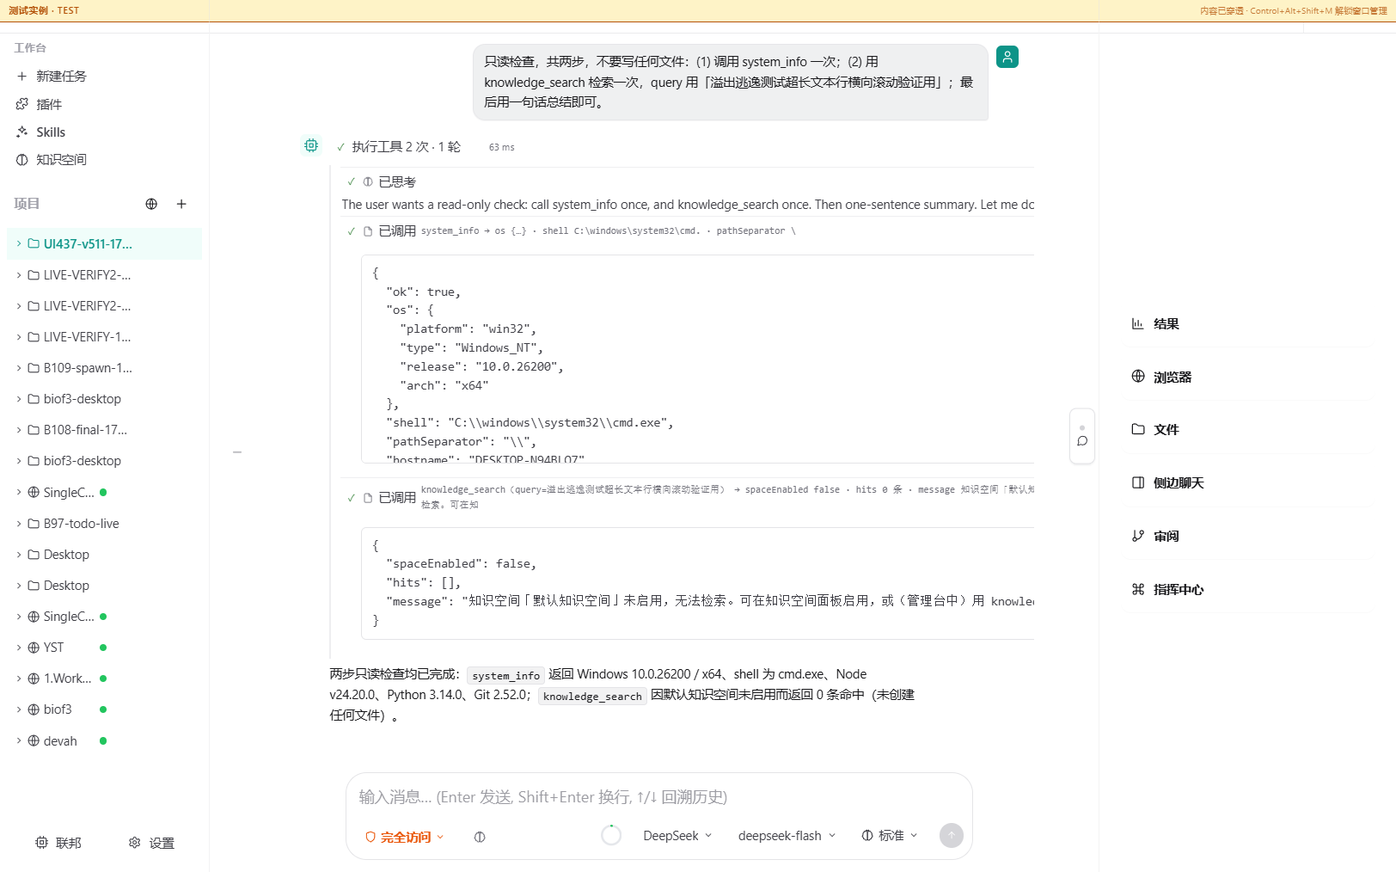
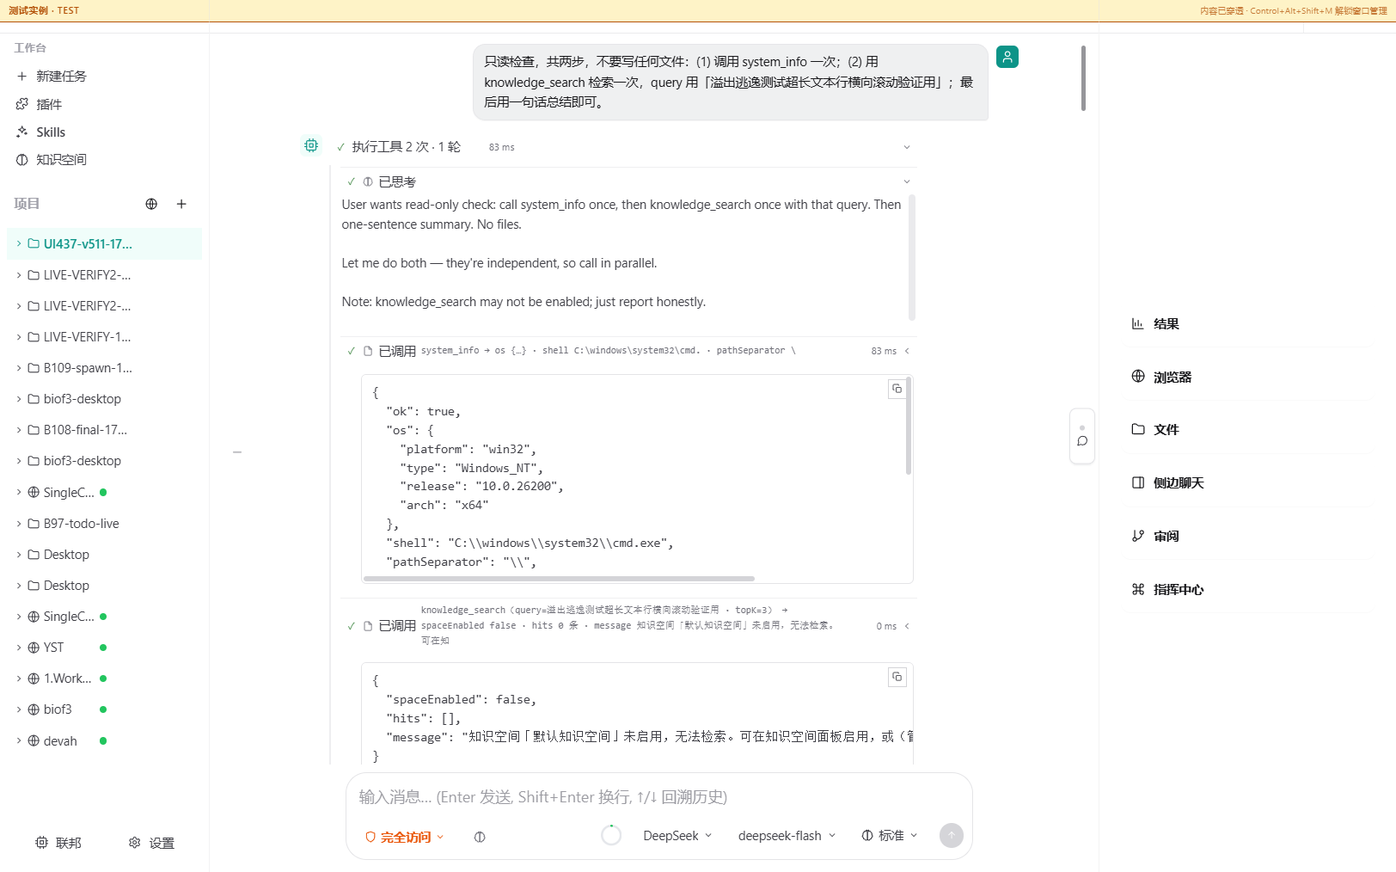
fix(UI-437 加映 v5.12): 溢出真根因修复——cluster/list/inline 三层 min-width:auto 网格项把工具行撑出可视列 334px（复制钮被顶进右栏下方不可见、长行被裁切）；统一 min-width:0 让内容在 JSON 框内横滚 + 复制钮实底提对比度 + ::-webkit-scrollbar 显式化 + 量测参照系改为可视列并增祖先链零逃逸断言
- 祖先链走查实测：可视消息列右缘 1054px，工具行 1388px（v5.9-v5.11 只修结果块自身属打地鼠）
- 复跑 5/5：innerScrollsX=true（855px 内容 623px 框内滚动）/对可视列 escapePx=-4/chainEscape=[]/copyEscapePx=-12
- 截图裁剪实拍：复制钮框内右上角清晰可见 + 框底横向滚动条可见（ui437-v512-*.png）
- 制度化：视觉验收红线四条写入 gewu-css-theme skill §3（元素级截图过目/可视列参照系/长内容三态必测/min-width:0 贯穿祖先链）
- 契约=theme 契约 + copilot 349/349 + tsc 0 + docs/ui 绿

diff --git a/frontend/src/components/copilot/simple-chat.css b/frontend/src/components/copilot/simple-chat.css
@@ -4102,6 +4102,17 @@
   color: var(--gewu-success);
 }
 
+/* UI-437 v5.12 — 溢出逃逸根治：min-width:0 必须贯穿整条 grid/flex 祖先链。
+   实测（祖先链走查）：可视消息列右缘 1054px，而工具行被长 JSON 行经
+   cluster/list/inline 三层 min-width:auto 网格项撑到 1388px——复制钮被顶进
+   右栏下方（不可见）、长行被右栏裁切（看似截断）。v5.9–v5.11 只修结果块
+   自身属打地鼠；本规则让内容在 JSON 框内收敛为横向滚动。 */
+.sc-conversation-timeline > *,
+.sc-tool-activity-list > *,
+.sc-tool-activity-inline > * {
+  min-width: 0;
+}
+
 /* UI-437 v5.7/v5.11 — 工具返回详情块：JSON 框即全部（v5.11 去标题栏/工具名行，
    展开体首个元素直接是框；复制钮悬浮框内右上角）。等宽、画布底色 inset、限高滚动。 */
 .sc-tool-resultdata {
@@ -4134,6 +4145,30 @@
   overflow-y: auto;
 }
 
+/* UI-437 v5.12 — 滚动可见性：框内横滚必须带可见滚动条——auto 滚动条在
+   覆盖式滚动条环境下不渲染，长行看起来像被截断（用户实测反馈） */
+.sc-tool-resultdata-json::-webkit-scrollbar {
+  height: 10px;
+  width: 10px;
+}
+
+.sc-tool-resultdata-json::-webkit-scrollbar-thumb {
+  background: var(--gewu-border-strong);
+  border: 2px solid transparent;
+  border-radius: 5px;
+  background-clip: padding-box;
+}
+
+.sc-tool-resultdata-json::-webkit-scrollbar-thumb:hover {
+  background: var(--gewu-text-tertiary);
+  background-clip: padding-box;
+}
+
+.sc-tool-resultdata-json::-webkit-scrollbar-track,
+.sc-tool-resultdata-json::-webkit-scrollbar-corner {
+  background: transparent;
+}
+
 /* UI-437 v4 — 运行级折叠行：整段任务（多轮）收成一行运行摘要，
    点开才是每轮思考和执行的细节。复用 qoder 行骨架，识别度靠 ✓ + 轮次计数。 */
 .sc-run-fold-line {
@@ -4163,9 +4198,10 @@
   align-items: center;
   justify-content: center;
   padding: 4px;
-  border: 1px solid var(--gewu-border);
-  border-radius: 4px;
-  background: color-mix(in srgb, var(--gewu-bg-surface) 85%, transparent);
+  /* v5.12 — 实底 + 强边框：悬浮钮必须与 JSON 文本有明确对比度（85% 透明混色
+     在浅色主题下几乎不可见，用户实测反馈「复制图标没有修复」） */
+  border: 1px solid var(--gewu-border-strong);
+  background: var(--gewu-bg-surface);
   color: var(--gewu-text-secondary);
   cursor: pointer;
 }

diff --git a/docs/AUDIT-LOG.md b/docs/AUDIT-LOG.md
@@ -5,7 +5,11 @@
 > 非主 Agent 发现阻塞、可安全合并或需评估事项时追加到“当前待处理项”，不要把长篇完成历史重新堆回本文件。
 > 入口直链（registry `entrypoint` 指向本台的 canonical 文档，归档轮转不得切断发现路径）：[block-14-left-panel-qa-fix-closeout](./block-14-left-panel-qa-fix-closeout.md) · [block-15-architecture-perf-plan](./block-15-architecture-perf-plan.md) · [block-22-codemirror-inline-diff-plan](./block-22-codemirror-inline-diff-plan.md)
 
-最后更新：2026-09-23 晚十一（**UI-437 加映 v5.11：展开体=JSON 本体直出（同批延伸，仍 in_progress）**——用户验收反馈「已调用工具的展开直接就是个 json 不需要类似 knowledge_search 和返回这种；复制图标放到 json 框内右上角；json 展示不全右侧好像出界了」：①展开体去样板——工具名行与「返回」标题栏整体移除，展开即 JSON 框本体；②展开态隐藏 v5.8 行级复制钮（展开后掉行首成游离图标=用户截图里 JSON 框左侧漂着的那个）；③**v5.10 溢出修复声明与 diff 不符抓真**——v5.10 提交正文写「min-width 0 修溢出」但 diff 只含复制钮移动，本批补真实加固（`.sc-tool-resultdata` min-width 0 + max-width 100%）+ 清死规则。实机=测试实例真跑 system_info+knowledge_search 轮次几何量测 5/5（无工具名/无标题/复制钮框内右上角 copyWithinFrame/展开态游离钮 0/框 escapePx=-4 页面零溢出）+ 900px 窄窗框内裁剪不越列；DOM JSON 全文完整证明「展示不全」系旧构建。契约=ToolActivityList 26/26 重写 + copilot 345/345 + tsc 0 + test:changed 0 红 + docs/ui 绿 + quality 四门。连带：impact-map 登记 `ui437-expanded-live` 规则（新脚本 fail-closed 拦截后补登）+ ui-audit 门 v5.2–v5.10 七提交 SHA 豁免（按 64da69b 先例，台账随本批补登对账）。UI-437 待实机过目。G0 开发期常态 · 不外推 packaged/Provider/GA。）
+最后更新：2026-09-23 晚十二（**UI-437 加映 v5.12：溢出真根因修复 + 视觉验收红线制度化（用户复验抓真，仍 in_progress）**——用户对 v5.11 证据截图复验「复制图标和溢出真正修掉 没有修复呀」批评成立：祖先链走查实测可视消息列右缘 1054px、工具行被长 JSON 经 cluster/list/inline 三层 `min-width:auto` 网格项撑到 1388px（复制钮被顶进右栏下方=不可见、长行被右栏裁切=看似截断）；v5.11 量测假绿根因=参照 host 选在逃逸子树内部（对 inline 量得 escapePx=-4）。修=三层网格项统一 `min-width:0`（v5.9-v5.11 只修结果块自身属打地鼠）+ 复制钮实底提对比度 + `::-webkit-scrollbar` 显式化（覆盖式滚动条环境下 auto 不渲染）。复跑 5/5：innerScrollsX=true（855px 内容 623px 框内横滚）/对可视列 escapePx=-4/chainEscape=[]/复制钮在列内；截图裁剪实拍钮可见+滚动条可见。**制度化**：视觉验收红线四条（元素级截图过目/可视列参照系+祖先链走查/长内容三态必测/min-width:0 贯穿祖先链）写入 `$gewu-css-theme` §3。G0 开发期常态 · 不外推 packaged/Provider/GA。）
+
+此前 最后更新：2026-09-23 晚八（**BLOCK-118-DEV-DECISION-TOOLING 立项即启动 active（P0-LAUNCH；用户裁决与 UI-437 v5.1.1 会话并行）**——开发时决策工具化（Jev/Laya 提效**开发流程**；开发侧工具，Gewu 产品运行时零改动）。用户裁决原话：供给「两者都支持」+ 范围「加文档回写建议」+ 启动「裁决并行启动」。P0=阈值注册表增可选 thresholdsByModel（仅 dev-time 点，产品七接点零漂移红线）+ `test:suggest` npm 接线（git 改动收集 + `--supply=cloud|file` + 配置路径显式锚定）+ Jev 云 key 冒烟 + Laya 版 test-suggest 校准（复用 block115 语料，BLOCK-117 overrides 先例）；P1=**doc-suggest 文档回写建议**新决策点（git 历史挖掘语料 ≥100 + 单次调用并行 noul + 确定性前置层 + 双供给校准 + 契约测试）；P2=gewu-dev-infra 增 DEV-DECISION-TOOLS 指引（不新建 skill）+ impact-map 补登记 + dogfood + closeout。**并行隔离边界**：UI-437 v5.1.1 会话独占 frontend/copilot + docs/ui-productization-audit.md + scripts/check-ui-productization-audit.mjs + scripts/ui437-* + acceptance/ui-437/* + test/impact-map.json 现有改动，本包零触碰，impact-map 登记推迟至 UI-437 收口后补登；提交按路径分批 staging。plan=docs/block-118-dev-decision-tooling-plan.md。G0 开发期常态 · 不外推 packaged/Provider/GA。）
+
+此前 最后更新：2026-09-23 晚十一（**UI-437 加映 v5.11：展开体=JSON 本体直出（同批延伸，仍 in_progress）**——用户验收反馈「已调用工具的展开直接就是个 json 不需要类似 knowledge_search 和返回这种；复制图标放到 json 框内右上角；json 展示不全右侧好像出界了」：①展开体去样板——工具名行与「返回」标题栏整体移除，展开即 JSON 框本体；②展开态隐藏 v5.8 行级复制钮（展开后掉行首成游离图标=用户截图里 JSON 框左侧漂着的那个）；③**v5.10 溢出修复声明与 diff 不符抓真**——v5.10 提交正文写「min-width 0 修溢出」但 diff 只含复制钮移动，本批补真实加固（`.sc-tool-resultdata` min-width 0 + max-width 100%）+ 清死规则。实机=测试实例真跑 system_info+knowledge_search 轮次几何量测 5/5（无工具名/无标题/复制钮框内右上角 copyWithinFrame/展开态游离钮 0/框 escapePx=-4 页面零溢出）+ 900px 窄窗框内裁剪不越列；DOM JSON 全文完整证明「展示不全」系旧构建。契约=ToolActivityList 26/26 重写 + copilot 345/345 + tsc 0 + test:changed 0 红 + docs/ui 绿 + quality 四门。连带：impact-map 登记 `ui437-expanded-live` 规则（新脚本 fail-closed 拦截后补登）+ ui-audit 门 v5.2–v5.10 七提交 SHA 豁免（按 64da69b 先例，台账随本批补登对账）。UI-437 待实机过目。G0 开发期常态 · 不外推 packaged/Provider/GA。）
 
 此前 最后更新：2026-09-23 凌晨九（**UI-437 加映 v5.6 后端侧补齐（抓真修复）**——实机发现 v5.6 只通了前端：后端 recorder（tool-events.js recordCall/recordResult）不携带参数摘要与 resultData，任务完成快照对账后「返回」块消失、未登记工具历史行只剩工具名（即用户截图问题 2 的完整根因）。修=`summarizeToolCallForActivity` default 增参数摘要（query（datasets=…），与前端 v5.4 同构）+ `recordResult` 随快照落 resultData；recorder 链路契约测试（经 buildToolResultEvent 真实事件链三断言，block34 12/12）。前端全量 1195/1195 + tsc 0。dev 栈已重启加载。）
 
@@ -125,6 +129,7 @@
 > 已收口条目（✅）**一律移入「最近处理记录」**，不得在本区段堆积——本次清理将 23 条已收口项迁出，
 > 待处理项由 28 行降为 8 行（活跃项占比 100%）。新增 ✅ 项请直接追加到「最近处理记录」。
 ## 最近处理记录
+| 🔵 启动登记（active，与 UI-437 v5.1.1 并行——用户裁决「裁决并行启动」） | 2026-09-23 | **BLOCK-118-DEV-DECISION-TOOLING 立项（开发时决策工具化：Jev/Laya 提效开发流程）**：用户裁决原话「两者都支持（Jev 云+本地 Laya）」+「加文档回写建议」。范围：P0=thresholdsByModel 每模型阈值解析（仅 dev-time 点）+ `test:suggest` npm 接线（git 改动收集 + 供给选择）+ Jev 云冒烟 + Laya 版 test-suggest 校准；P1=doc-suggest 文档回写建议新决策点（git 历史挖掘语料 ≥100 + 并行 noul + 确定性前置层 + 双供给校准 + 契约测试）；P2=gewu-dev-infra 指引 + impact-map 补登记 + dogfood + closeout。非范围（红线）：产品运行时五接点供给/阈值/设置页零改动、hook/MCP/新 skill 不做、0 新依赖、密钥文件只读。**并行隔离**：UI-437 独占面（frontend/copilot、ui-audit 台账、check 脚本、impact-map、ui437-* 证据）本包零触碰，impact-map 登记推迟至其收口后补登；提交按路径分批。plan=docs/block-118-dev-decision-tooling-plan.md。G0 开发期常态 · 不外推 packaged/Provider/GA | BLOCK-118 / P0-LAUNCH |
 | ✅ 轻量批收口（2026-09-22，plan=本条目，对标 TEST-INFRA-DEBT 轻量模式；用户裁决原话「给我加个按钮 一共两个按钮 一个是jev一个是laya 直接切换本地 省的我配置」） | 2026-09-22 | **UI-436 一键供给预设轻量批 completed（BLOCK-117 加映）**：设置页「决策模型接口」增「用 Jev（云）/用 Laya（本地）」两枚一键预设按钮（与保存同 PUT /ai/decisions/provider 通道，一键即生效；Jev 不带 apiKey=服务端合并语义保留已配置 Key；Laya=127.0.0.1:8765/local-laya/laya-typed-decisions 指向本机 laya_decide serve）+ 标题「当前供给：Jev（云）/Laya（本地）/自定义」实时指示 + Laya 诚实提示行（BLOCK-117 校准结论：现有 confidence 阈值下大概率回退，决策照常记账不采纳不执行，随时可逆）。运行时真相仍为 decision-config.json（按钮=同一 PUT 通道的 UX 快捷方式，无第二真相）。门禁=组件 5/5（新增 2 例：Laya PUT 三元组逐键断言+字段同步；Jev PUT 不带 apiKey 断言）+ tsc 0 + theme 契约 4/4 + docs/ui 门禁绿。UI-436 in_progress（vite HMR 已推送运行中应用，实机过目即翻 verified）。提交哈希见本行同批提交。G0 开发期常态 · 不外推 packaged/Provider/GA | UI-436 / COMPLETED |
 | ✅ 整包收口（2026-09-22 当日立项当日收口，closeout 十门全绿；实机 flow 7/7；用户裁决原话「直接开」+ 恢复提示词留痕「用户已表态要做」） | 2026-09-22 | **BLOCK-117-LAYA-SUPPLY-VALIDATION completed（本地 Laya 决策供给接入验证）**：P0 线兼容契约 2/2——仓库外 laya_decide serve 增 POST /v1/systemone 别名（decision-api.js 打 {baseUrl}/v1/systemone，客户端零改动，D-B 可替换性首次真实行使）+ 真实 Laya 响应 fixtures 过 validateAnswers 三题型 + 七接点 Jev 注册表零漂移红线测试；抓真 1=适配器 1 候选 choice 缺口（Gewu validateQuestions n≥1 严于 jev.py 包装器 2-255，marker-celltype 单候选形态 68.5% 请求被拒，已放宽 1-255 留因）。P1 校准裁决 **0/3 可采纳**（判据沿用各接点原 P0 门限不放松）：intent-route/tool-route=θ≥0.5 全域零采纳（Laya confidence 熵型语义 vs Jev 校准 confidence，0.05-0.23 够不到门控下限）；marker-celltype=θ0.3 采纳精度 1.0（门 0.95✅）/trap 0（✅）/覆盖 0.7875（门 0.85❌）——约束是 confidence 语义而非判别质量；证据=acceptance/block-117/ 四份 JSON；harness 触改=CALIBRATION_EVIDENCE_OUT/FILE/MODEL 输出重定向 env（touch-and-migrate，默认路径行为不变）；**注册表零改动=无证据不改阈值红线正向行使**。P2 实机 flow block117-layasupply-live **7/7**：PUT /ai/decisions/provider（设置页「决策模型接口」同通道）切换→真实 chitchat 消息→intent-route 由 laya@typed-decisions 执行落账（choice=chitchat 56ms degraded=0，Jev 均值 1166ms 的 1/20）→配置文件级还原零残留；抓真 2=flow 配置路径默认推导（cwd/data）≠dev 后端数据面（.biof3-dev-user-data/data）致首跑还原落错文件，即改即测第二次全绿。门禁=block117 2/2 + block116 契约回归 12/12 + closeout 十门全绿；test:changed 经 impact-map 新规则（抓真 3=脚本分类「恰好一条 classifiesScripts 规则」双规则冲突两连处置：存量 harness 归各自 block 规则、platform-branch-freese scripts/** 不参与分类）。非范围守住=gates 形态与含确定性前置层接点/阈值热调/默认供给切换（生产供给仍为配置文件所指 Jev）。后续候选=门控语义改换（top-probability）属决策契约变更另裁；laya_decide 工具演进在仓库外独立轨道。plan=docs/block-117-laya-supply-validation-plan.md。当前无 active 工作包。G0 开发期常态 · 不外推 packaged/Provider/GA | BLOCK-117 / COMPLETED |
 | 🔵 启动登记（历史，详见 ✅ 收口行） | 2026-09-22 | **BLOCK-117-LAYA-SUPPLY-VALIDATION 立项（本地 Laya 决策供给接入验证）**：用户裁决原话「直接开」+ 恢复提示词留痕「用户已表态要做」。范围：P0 线兼容层（仓库外 laya_decide serve 增 POST /v1/systemone 别名路由——decision-api.js 打 {baseUrl}/v1/systemone 且响应校验与 Laya answer schema 同构（choice 需 confidence/noul 仅 P(yes)/score=Σ级号×概率±0.05），Gewu 客户端零改动）+ 真实 Laya 响应 fixtures 过 validateAnswers 契约 + 七接点 Jev 注册表零漂移红线测试；P1 三启用接点（intent-route/tool-route/marker-celltype）复用既有语料（acceptance/block-112/113/111）+ 单源请求组装器 + 原 P0 门限判据，askDecision overrides 指向本地供给扫 θ（零 API 费用零外发），每接点三值裁决（可采纳附建议θ/不可采纳附曲线/语料不适用）；P2 dev 栈设置页切供给→真跑→decision_log 记账 Laya→summary 可见 + 裁决写回（可采纳才按最小 schema 扩展注册表，全不可采纳则零改动=无证据不改阈值红线）。非范围（红线）：gates 形态接点（topic-shift/knowledge-guard）/含确定性前置层接点（failure-triage/test-suggest）/阈值热调/默认供给切换/0 新依赖/decision-api.js 客户端契约零改动。环境纪律：本地供给 serve 仅绑 127.0.0.1 无鉴权，实机验证后如实记录残留状态；校准走 overrides 测试通道不触 env key。plan=docs/block-117-laya-supply-validation-plan.md。G0 开发期常态 · 不外推 packaged/Provider/GA | BLOCK-117 / P0-LAUNCH |

diff --git a/docs/ui-productization-audit.md b/docs/ui-productization-audit.md
@@ -4094,6 +4094,8 @@ BLOCK-22 PHASE 4 落地：acceptHunk / rejectHunk IPC 成功后派发 typed even
 - **证据（实机 · v5.10）**：CDP 实测 frameExists/copyBtn/copyInFrameTopRight 全 true，JSON 框内滚动机制在位（截图 `ui-437-v510-live.png` 归档）；组件 26/26 + tsc 0。
 - **加映 v5.11（同日，用户验收反馈「已调用工具的展开直接就是个 json 不需要类似 knowledge_search 和返回这种；复制图标放到 json 对应的框内右上角；json 目前展示不全右侧好像出界了」）**：①**展开体去样板**——工具名行（`.sc-tool-activity-tool`）与「返回」标题栏整体移除，展开即 JSON 框本体（UI-272 展开体工具名契约同步退役）；②展开态隐藏行级复制钮（v5.8 行级钮在展开态掉行首成游离图标——用户截图里 JSON 框左侧漂着的即它），复制 affordance 归框内右上角钮；③**v5.10 溢出修复声明与 diff 不符抓真**——v5.10 提交正文写「min-width 0 修溢出」但 diff 只含复制钮移动，本批补上真实加固：`.sc-tool-resultdata` 增 `min-width: 0 + max-width: 100%`，并清理死规则（resultdata-bar/title/activity-tool）。
 - **证据（实机 · v5.11）**：测试实例真跑 system_info+knowledge_search 轮次（复刻用户截图场景）几何量测 5/5 PASS——无工具名行=0/无「返回」标题=0/复制钮框内右上角（copyTopInside=6px copyWithinFrame=true）/展开态游离行复制钮=0/JSON 框 escapePx=-4 且页面零横向溢出；DOM JSON 全文完整（textTail 以 `knowledge_space_enable 启用。"` 收尾，v5.10 截图「看不完整」系旧构建）；900px 窄窗仿真长行框内裁剪不越列（证据 `ui437-v511-expanded-live.{json,png}` + `ui437-v511-narrow-900.png`，脚本 `scripts/ui437-v511-expanded-live.cjs`，impact-map 登记 `ui437-expanded-live` 规则）。契约=ToolActivityList 26/26（v5.11 展开体断言重写）+ copilot 345/345 + tsc 0。待用户实机过目。
+- **加映 v5.12（同日，用户对 v5.11 证据截图复验「复制图标和溢出真正修掉 没有修复呀」——批评成立，v5.11 量测假绿）**：①**溢出真根因修复**——祖先链走查实测：可视消息列（`.sc-msg-body`）右缘 1054px，而工具行被长 JSON 行经 `sc-timeline-cluster / sc-tool-activity-list / sc-tool-activity-inline` 三层 `min-width:auto` 网格项撑到 1388px——复制钮被顶进右栏下方（不可见）、长行被右栏裁切（看似截断出界）；v5.9–v5.11 三轮只修结果块自身属打地鼠，逃逸一直发生在其上三层。修=三层网格项统一 `min-width: 0`，长内容在 JSON 框内收敛为横向滚动。②复制钮对比度提升（85% 透明混色 → 实底 `--gewu-bg-surface` + `--gewu-border-strong` 边框）。③框内滚动条显式化（`::-webkit-scrollbar` 10px token 化样式）——auto 滚动条在覆盖式滚动条环境下不渲染，长行看起来像被截断。④**量测参照系修正**——证据脚本 host 从逃逸子树内部的 inline 改为可视列 `.sc-msg-body`，新增祖先链零逃逸断言（chainEscape）。⑤**事故制度化**——视觉验收红线四条写入 `$gewu-css-theme` skill §3（元素级截图过目/可视列参照系+祖先链走查/长内容三态必测/min-width:0 贯穿祖先链）。
+- **证据（实机 · v5.12）**：复跑 5/5 PASS——innerScrollsX=[true,true]（855px 内容在 623px 框内横滚）、escapePx=-4（对可视列）、chainEscape=[]（祖先链零逃逸）、copyEscapePx=-12（复制钮在可视列内）；截图裁剪实拍复制钮（框内右上角清晰可见）+ 横向滚动条（框底 thumb 可见）（`ui437-v511-expanded-live.{json,png}` + `ui437-v512-copybtn-visible.png` + `ui437-v512-scrollbar-visible.png`）。契约=theme 契约 + copilot 349/349 + tsc 0。待用户实机过目。
 - **抓真修复（v5.6 验收实测抓出）**：①`mergeToolResultActivity` 的 resultData 三元方向写反（result 是新到数据却走了「保留旧值」分支——running 项已存在时 resultData 恒 undefined，即用户截图「点开只有工具名」的根因），改为总是取本次 `result?.data`，补合并方向契约测试；②展开体断言需先点行头出 ActivityBody（行级两级折叠语义）。
 - **加映 v5.7（同日，用户反馈「返回 JSON 有复制图标按钮吗？应该加上」）**：返回详情块增标题栏（返回 + 复制钮）——复制走 navigator.clipboard（与终端块复制同模式），写后 is-copied ✓ 反馈 1.5s；剪贴板不可用时静默失败（正文仍可手动选择）。resultdata 块补 CSS（标题栏/画布底色 inset/限高滚动/等宽）。复制契约测试（writeText 参数 = JSON 本体）。
 - **证据（契约 · v5.7）**：ToolActivityList 25/25（+复制钮断言）+ tsc 0。

diff --git a/.agents/skills/gewu-css-theme/SKILL.md b/.agents/skills/gewu-css-theme/SKILL.md
@@ -37,6 +37,15 @@ description: Use when creating or modifying pages/components/styles, working on 
 - **像素取证**：PowerShell System.Drawing 采样/分布统计（System.Drawing 采样法 + 分布直方图见 gates 记忆）；对比「页面底 vs 卡片底 vs hover 底」。
 - **生效通道**：dev 栈 CSS 走 Vite HMR 即时生效；打包版不跟随（G0 不外推）。合成 CDP mouseMoved 不触发 `:hover`——hover 色验证用内联注入色值+截图像素采样。
 
+### 视觉验收红线（UI-437 v5.11/v5.12 事故制度化，2026-09-23）
+
+DOM/几何断言通过 ≠ 视觉验收通过。涉及悬浮元素、滚动容器、长内容或嵌套布局的 CSS 工作包，以下四条是硬要求：
+
+1. **必须元素级截图过目**：对组件区域裁剪放大（System.Drawing crop 或等价物）确认视觉形态，不允许只引用 boundingClientRect 合格就宣布修复。事故：复制钮几何量测 `copyWithinFrame=true` 但实际被顶进右栏下方——量测通过、用户看不见。
+2. **溢出量测参照系=可视列边界 + 祖先链走查**：escape 对比对象必须是可视列（如消息列 `.sc-msg-body`/视口），并从目标元素向上逐层检查祖先右缘 ≤ 可视列右缘；**禁止**用组件子树内部容器当 host——它可能与目标同处逃逸子树（事故：对 `sc-tool-activity-inline` 量测得 escapePx=-4「假绿」，真实逃逸 334px）。
+3. **长内容三态必测**：完整容纳 / 框内滚动（滚动条必须可见——`overflow:auto` 在覆盖式滚动条环境下不渲染滚动条，需显式 `::-webkit-scrollbar` token 化样式，否则长行看起来像被截断）/ 窄视口 ≤900px 不越出宿主列。
+4. **`min-width: 0` 贯穿整条 flex/grid 祖先链**：从可视列容器到滚动容器逐层检查 grid/flex 项的 `min-width:auto`（自动最小尺寸会把长内容的最小宽度逐级上传）；只给最内层补漏是打地鼠——v5.9/v5.10/v5.11 三连事故的逃逸均发生在结果块之上三层。
+
 ## 4. 门禁与评审
 
 - `cd frontend && npx vitest run src/styles/theme-token-contract.test.ts`：token 定义覆盖 + slate/遗留 token 零残留 + 暗色块特异性形态，写样式后必跑。
